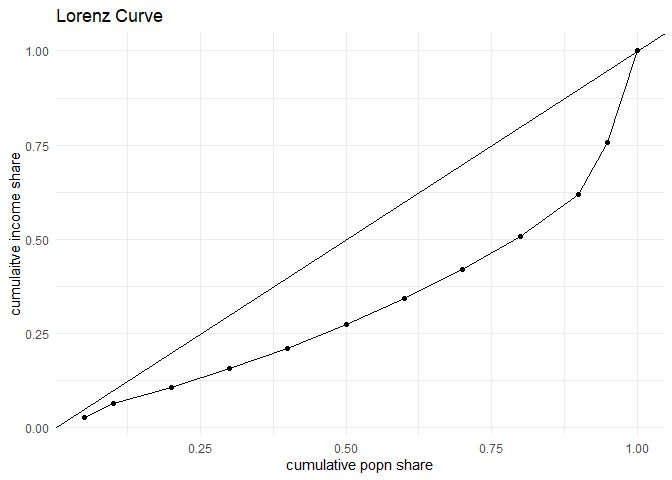
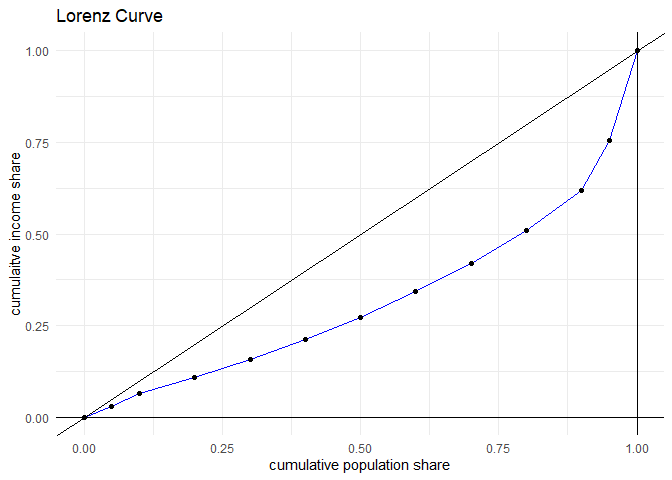
Added functions in README

diff --git a/README.md b/README.md
@@ -96,6 +96,18 @@ In a similar way, using $y_j=(s_j/w_j)\mu$, we see that the Gini
 coefficient is given by
 $$G = \frac{1}{2n^2 \mu} \sum_{j=1}^{m} \sum_{k=1}^{m} n_j n_k |y_j-y_k| = \frac{1}{2 \mu} \sum_{j=1}^{m} \sum_{k=1}^{m} w_j w_k |(s_j/w_j)-(s_k/w_k)|$$
 
+## The functions in the package
+
+There are two functions available right now: `ineq1` and `ineq2`.
+
+- `ineq1`: This function creates the Lorenz curve, and computes the
+  coefficient of variation (CV) and the Gini coefficient for group-wise
+  data on population shares and mean income levels;
+
+- `ineq2`: This function creates the Lorenz curve, and computes the
+  coefficient of variation (CV) and the Gini coefficient for group-wise
+  data on population and income shares;
+
 ## Installation
 
 You can install the development version of ineq from
@@ -148,18 +160,19 @@ myresults$Gini
 # cumulative population and income share
 myresults$lzdata
 #>    cum_popsh  cum_incsh
-#> 1       0.05 0.02832061
-#> 2       0.10 0.06448393
-#> 3       0.20 0.10702351
-#> 4       0.30 0.15615280
-#> 5       0.40 0.21143187
-#> 6       0.50 0.27312904
-#> 7       0.60 0.34189277
-#> 8       0.70 0.41938341
-#> 9       0.80 0.50874673
-#> 10      0.90 0.61777653
-#> 11      0.95 0.75661673
-#> 12      1.00 1.00000000
+#> 1       0.00 0.00000000
+#> 2       0.05 0.02832061
+#> 3       0.10 0.06448393
+#> 4       0.20 0.10702351
+#> 5       0.30 0.15615280
+#> 6       0.40 0.21143187
+#> 7       0.50 0.27312904
+#> 8       0.60 0.34189277
+#> 9       0.70 0.41938341
+#> 10      0.80 0.50874673
+#> 11      0.90 0.61777653
+#> 12      0.95 0.75661673
+#> 13      1.00 1.00000000
 ```
 
 The Lorenz curve.
